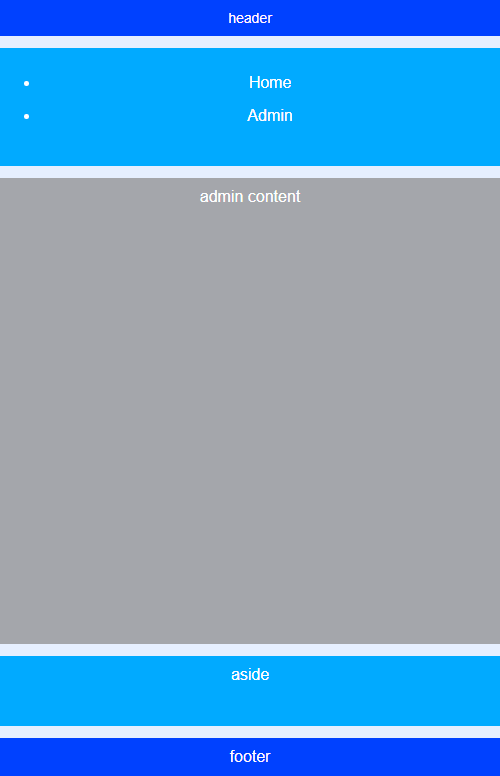
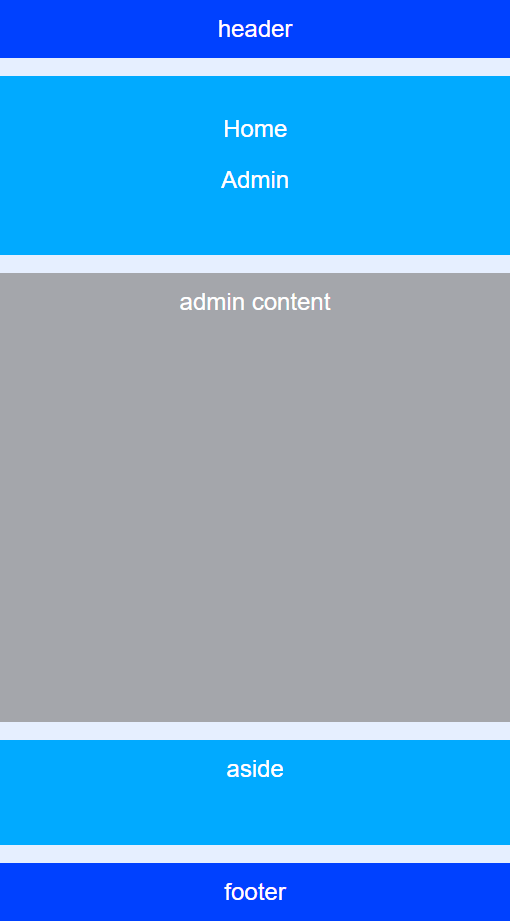
chore: update images

Changed region(s): [[0.0, 0.7732, 1.0, 0.9897], [0.0, 0.1856, 1.0, 0.3402], [0.0, 0.0, 1.0, 0.1546]]

diff --git a/apps/demo/src/app/pages/admin/admin.component.scss b/apps/demo/src/app/pages/admin/admin.component.scss
@@ -51,3 +51,13 @@
   padding: 10px 0;
 }
 
+@media (max-width: 991px) {
+  ul {
+    padding: 0;
+    li {
+      a {
+        text-align: center;
+      }
+    }
+  }
+}
